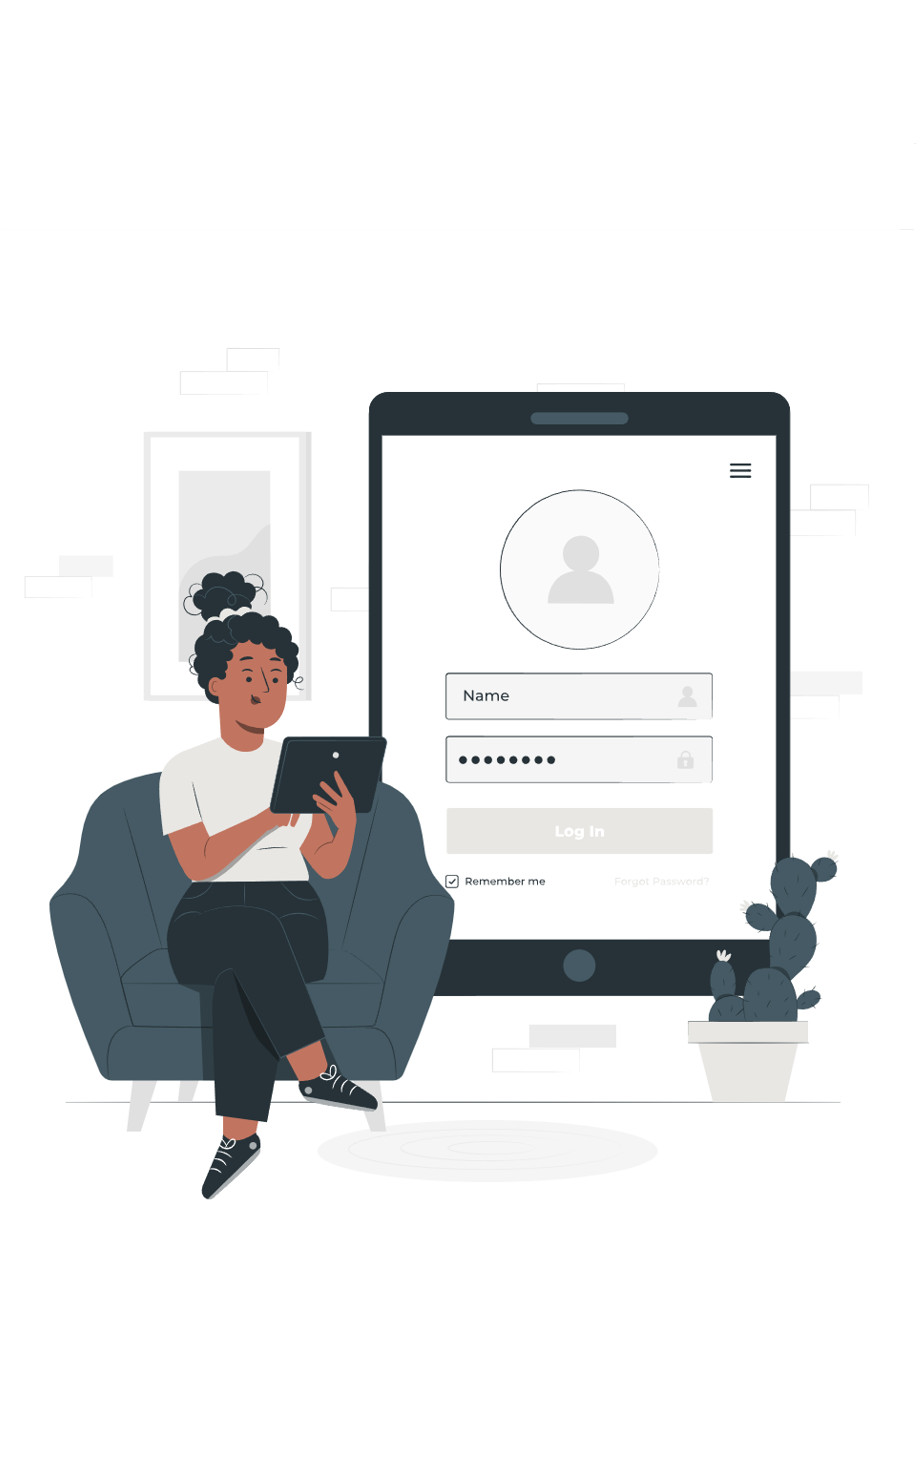
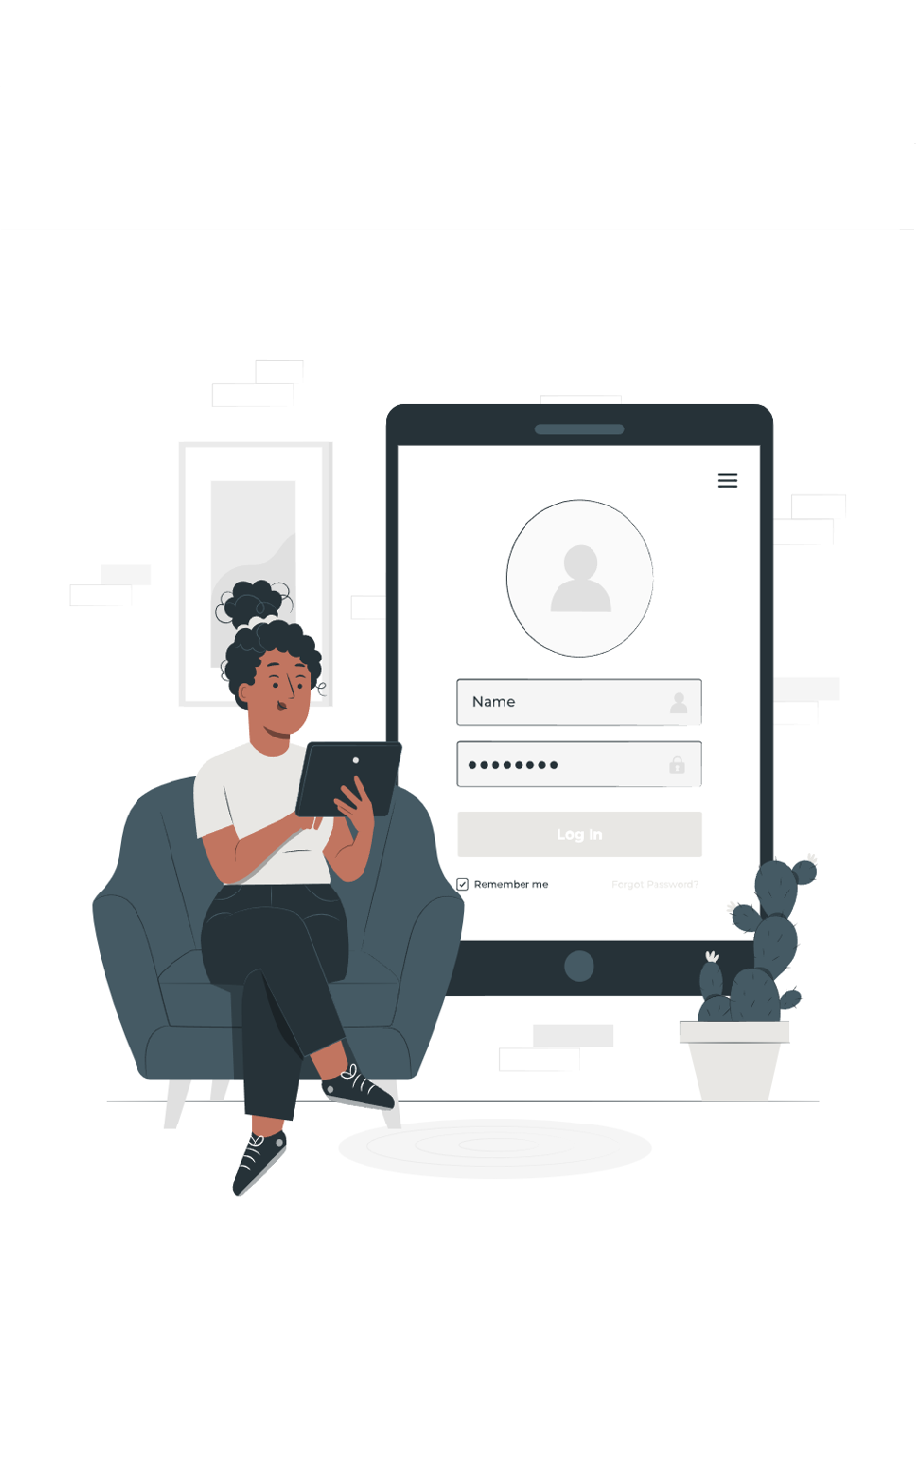
fix register

diff --git a/public/assets/css/public.css b/public/assets/css/public.css
@@ -727,6 +727,13 @@ input[type="date"]::-webkit-calendar-picker-indicator {
     color: var(--color-white);
 }
 /* Member input */
+div.side-image{
+    background-size: cover;
+    background-repeat: no-repeat;
+    background-color: white;
+    background-position: center;
+}
+
 .content-member-input {
     width: 100%;
     max-width: 627px;
@@ -1332,7 +1339,7 @@ img.img-success-background{
     margin-bottom: 4px;
     flex-wrap: wrap;
 }
-.input-preview .preview-value[data-for='unitPrice']{
+div[data-for='unitPrice']{
     color: var(--color-blue) !important;
     font-weight: bold;
 }

diff --git a/public/assets/lib/custom-focus-input/style.css b/public/assets/lib/custom-focus-input/style.css
@@ -14,8 +14,3 @@
 .form-control:focus{
     box-shadow: none;
 }
-div.side-image{
-    background-size: contain;
-    background-repeat: no-repeat;
-    background-color: white;
-}

diff --git a/resources/views/project/edit/step2/agent.blade.php b/resources/views/project/edit/step2/agent.blade.php
@@ -5,12 +5,7 @@
         <span class="preview-value" data-for="week">週{{ isset($project) ? $project->weeks->name : old('week') }}</span>
     </div>
     <h2 data-for="caseName" class="pt-2">{{ isset($project) ? $project->name : old('caseName') }}</h2>
-</div>
-<div class="input-preview">
-    <div class="preview-label">
-        <div class="preview-value" data-for="unitPrice">¥ {{ isset($project) ? $project->price : old('unitPrice') }}/ 月</div>
-    </div>
-    <div class="preview-value" data-for="jobContent">{{ isset($project) ? $project->content : old('jobContent') }}</div>
+    <div data-for="unitPrice">¥ {{ isset($project) ? $project->price : old('unitPrice') }}/ 月</div>
 </div>
 <div class="input-preview">
     <div class="preview-label">
@@ -18,6 +13,12 @@
     </div>
     <div class="preview-value" data-for="contractType">
     </div>
+</div>
+<div class="input-preview">
+    <div class="preview-label">
+        <label>職務内容</label>
+    </div>
+    <div class="preview-value" data-for="jobContent">{{ isset($project) ? $project->content : old('jobContent') }}</div>
 </div>
 <div class="input-preview">
     <div class="preview-label">

diff --git a/resources/views/project/edit/step2/company.blade.php b/resources/views/project/edit/step2/company.blade.php
@@ -15,19 +15,20 @@
         </span>
     </div>
     <h2 data-for="caseName" class="pt-2">{{ isset($project) ? $project->name : old('caseName') }}</h2>
+    <div data-for="unitPrice">¥ {{ isset($project) ? $project->price : old('unitPrice') }}/ 月</div>
 </div>
 <div class="input-preview">
     <div class="preview-label">
-        <div class="preview-value" data-for="unitPrice">¥ {{ isset($project) ? $project->price : old('unitPrice') }}/ 月</div>
-    </div>
-    <div class="preview-value" data-for="jobContent">{{ isset($project) ? $project->content : old('jobContent') }}</div>
-</div>
-<div class="input-preview">
-    <div class="preview-label">
-        <label>契約形態</label>
+        <label></label>
     </div>
     <div class="preview-value" data-for="contractType">
     </div>
+</div>
+<div class="input-preview">
+    <div class="preview-label">
+        <label>職務内容</label>
+    </div>
+    <div class="preview-value" data-for="jobContent">{{ isset($project) ? $project->content : old('jobContent') }}</div>
 </div>
 <div class="input-preview">
     <div class="preview-label">

diff --git a/resources/views/project/edit/step1/agent.blade.php b/resources/views/project/edit/step1/agent.blade.php
@@ -8,12 +8,11 @@
         <input type="text" class="form-control{{ $errors->has('caseName') ? ' is-invalid' : '' }}" value="{{ isset($project) ? $project->name : old('caseName') }}" id="caseName" name="caseName" placeholder="募集タイトルを入力" required >
     </div>
     <div class="form-group">
-        <label for="unitPrice" class="col-form-label">単価/円</label>
+        <label for="unitPrice" class="col-form-label">単価/月</label>
         <div class="unite-price-range">
             <div>
                 <input type="text" class="form-control{{ $errors->has('unitPrice') ? ' is-invalid' : '' }}" value="{{ isset($project) ? $project->price : old('unitPrice') }}" id="unitPrice" name="unitPrice" min="0" placeholder="単価を入力" required data-parsley-type="number">
             </div>
-            <span class="unit">円</span>
         </div>
     </div>
     <div class="form-group">

diff --git a/resources/views/project/edit/step1/company.blade.php b/resources/views/project/edit/step1/company.blade.php
@@ -56,12 +56,11 @@
         </span>
     </div>
     <div class="form-group">
-        <label for="unitPrice" class="col-form-label">単価/円</label>
+        <label for="unitPrice" class="col-form-label">単価/月</label>
         <div class="unite-price-range">
             <div>
                 <input type="text" class="form-control{{ $errors->has('unitPrice') ? ' is-invalid' : '' }}" value="{{ isset($project) ? $project->price : old('unitPrice') }}" id="unitPrice" name="unitPrice" min="0" placeholder="価格を入力" required data-parsley-type="number">
             </div>
-            <span class="unit">円</span>
         </div>
     </div>
     <div class="form-group">

diff --git a/app/Http/Controllers/ProjectController.php b/app/Http/Controllers/ProjectController.php
@@ -95,7 +95,6 @@ class ProjectController extends Controller
         $project = $this->createProject($request->all());
         if ($project->name != null) {
             $project->save();
-            flash('掲載しました。')->success();
         }
         return back()->with('step', 3);
     }
@@ -148,7 +147,6 @@ class ProjectController extends Controller
         $this->validator($request->all())->validate();
         $project = $this->updateProject($project, $request->all());
         $project->save();
-        flash('掲載しました。')->success();
         return back()->with('step', 3);
     }
 

diff --git a/app/Http/Controllers/UserController.php b/app/Http/Controllers/UserController.php
@@ -72,7 +72,6 @@ class UserController extends Controller
 
         if($user->email != null){
             $user->save();
-            flash('登録完了しました。')->success();
         }
 
         return $this->updated($request, $user);
